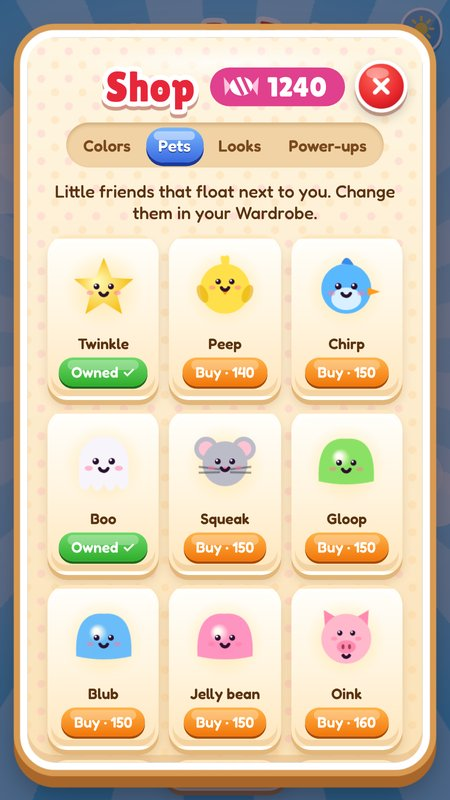
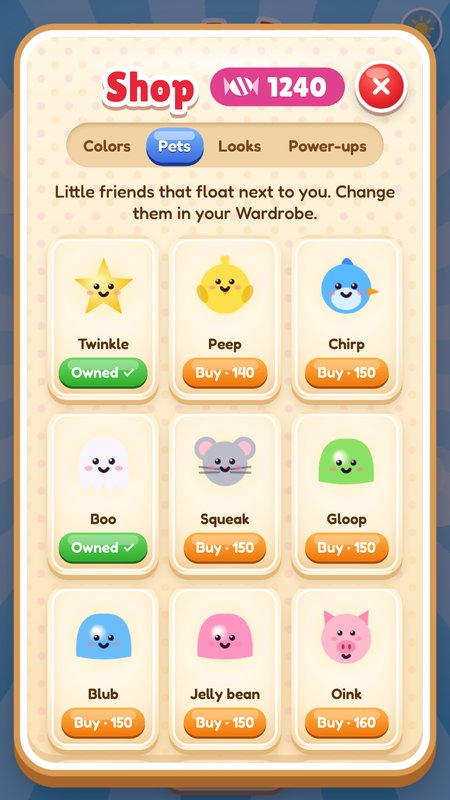
Fichas tipo almohadón: centro claro y bordes dorados

diff --git a/index.html b/index.html
@@ -270,13 +270,13 @@ body[data-ev="christmas"] #evBtn{background:rgba(255,255,255,.18)}
 .newDot{position:absolute;top:-2px;right:-2px;width:16px;height:16px;border-radius:50%;background:#e8263a;border:2px solid #fff;animation:dotPop 1.2s ease-in-out infinite}
 @keyframes dotPop{50%{transform:scale(1.2)}}
 .item.tap{cursor:pointer}
-/* candy shop: sunken tab rail with a glossy blue tab, raised tiles lit on top and shaded below, items on a soft golden glow, still-wrapped presents for what is not found yet */
+/* candy shop: sunken tab rail with a glossy blue tab, puffy tiles (light in the middle, golden at the edges), items on a soft golden glow, still-wrapped presents for what is not found yet */
 .tabs{background:#f0d2a4;box-shadow:inset 0 2px 3px rgba(150,90,30,.3)}
 .tab.on,.itab.on,.wtab.on{position:relative;color:#fff;background:linear-gradient(#7ab8ff,#3a6ae0);box-shadow:0 3px 0 #1a3a9a;text-shadow:0 1px 0 #1a3a9a}
 .tab.on::after,.itab.on::after,.wtab.on::after{content:"";position:absolute;left:14%;right:14%;top:3px;height:7px;border-radius:99px;background:rgba(255,255,255,.45)}
-.item,.look{position:relative;background:linear-gradient(#fffefa,#fff3dc 55%,#ffe6bd);box-shadow:inset 0 2px 0 #fff,inset 0 -5px 0 rgba(214,160,90,.28),0 4px 0 #e2b67a,0 6px 8px rgba(150,90,30,.2)}
+.item,.look{position:relative;background:radial-gradient(ellipse 90% 70% at 50% 35%,#fffef9,#fff0d4 70%,#fbdcae);box-shadow:inset 0 0 0 2px rgba(255,255,255,.9),inset 0 -6px 8px rgba(214,150,70,.25),0 4px 0 #e2b67a,0 6px 8px rgba(150,90,30,.2)}
 .item canvas,.item img,.look canvas,.look img{background:radial-gradient(closest-side,rgba(255,215,110,.5),rgba(255,215,110,0))}
-.item.mystery,.look.locked{background:linear-gradient(#f9e8cc,#f0d6ab 60%,#e8c896);box-shadow:inset 0 2px 0 rgba(255,255,255,.7),inset 0 -5px 0 rgba(180,120,50,.25),0 4px 0 #d3a464}
+.item.mystery,.look.locked{background:radial-gradient(ellipse 90% 70% at 50% 35%,#fbecd2,#f1d8ae 70%,#e6c28c);box-shadow:inset 0 0 0 2px rgba(255,255,255,.6),inset 0 -6px 8px rgba(170,110,40,.25),0 4px 0 #d3a464}
 .look.locked canvas,.look.locked img{background:none}
 .gift{position:relative;z-index:1;width:46px;height:38px;margin:26px 0 2px;border-radius:6px;
   background:linear-gradient(90deg,transparent 40%,var(--gr) 40% 60%,transparent 60%),repeating-linear-gradient(45deg,var(--g1) 0 6px,var(--g2) 6px 12px);box-shadow:inset 0 -5px 0 rgba(0,0,0,.12)}
